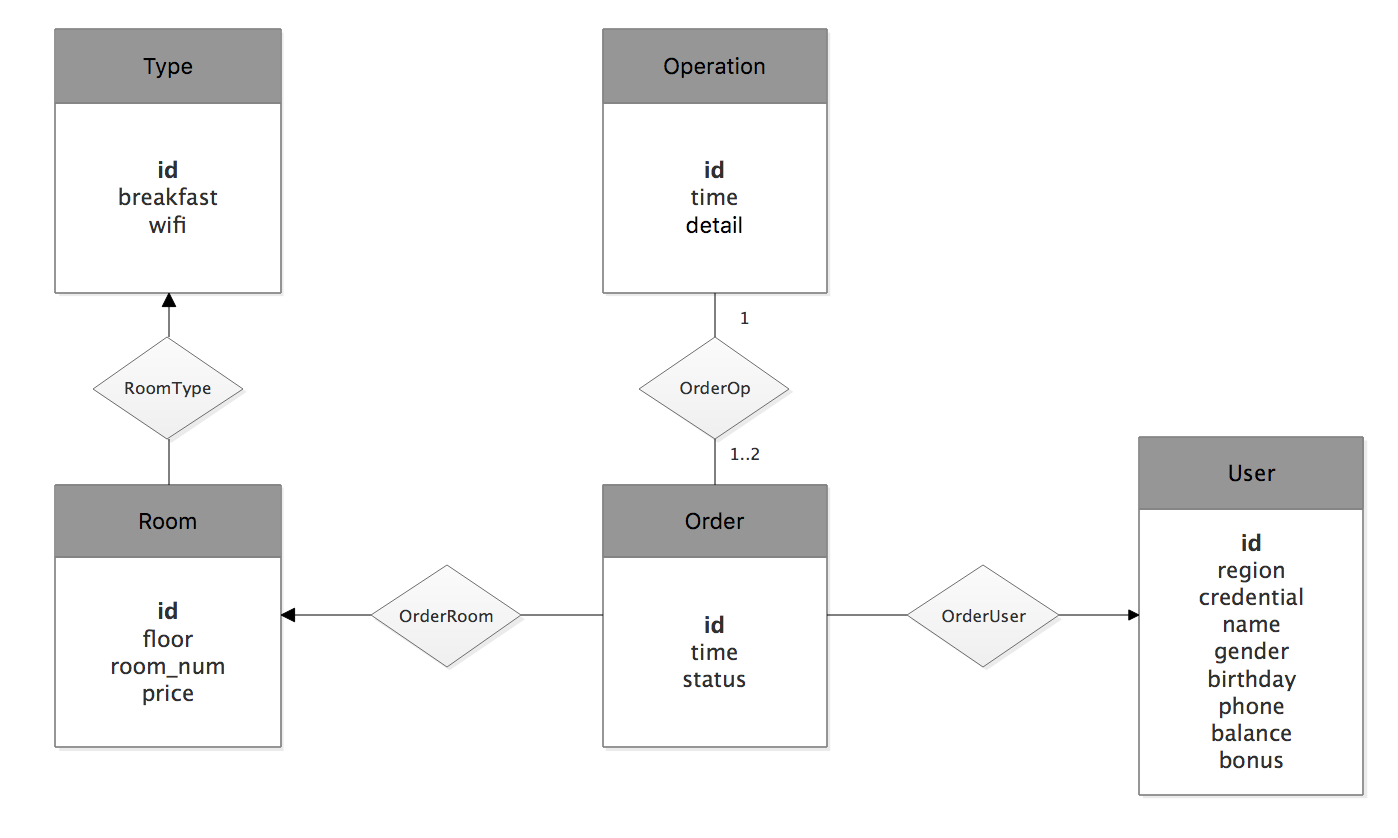
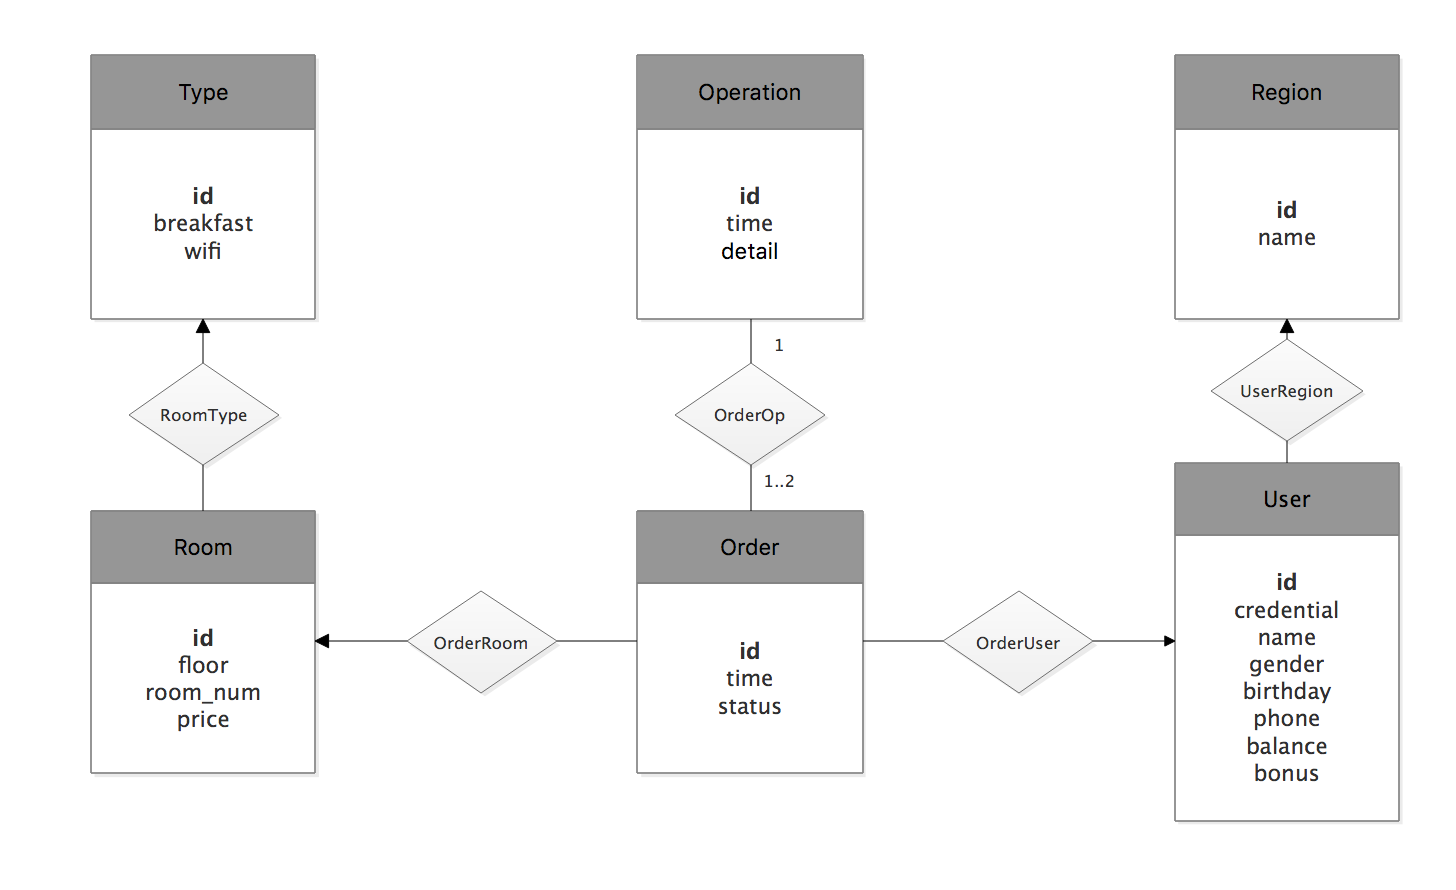
添加region模式

diff --git a/report/myreport.tex b/report/myreport.tex
@@ -149,7 +149,7 @@
 	\item 考虑多对一的联系集$AB$和相关的实体集$A$, $B$, ，若$A$在联系中的参与是全部的，那么可以将$A$与$AB$模式属性合并得到$A^*$，主码是$A$的主码，外码加入$A^*$中。
 \end{itemize}
 
-依照上述规则，由于Type、Room、Operation、Order、User均为简单强实体集于是可以首先生成包含对应属性的关系模式。再考虑联系集，由于OrderUser、RoomType、OrderRoom、OrderOp均为一对多的联系集，因此均可以按照上述规则消除。
+依照上述规则，由于Type、Room、Operation、Order、User、Region均为简单强实体集于是可以首先生成包含对应属性的关系模式。再考虑联系集，由于OrderUser、RoomType、OrderRoom、OrderOp、UserRegion均为一对多的联系集，因此均可以按照上述规则消除。
 
 最后得到以下关系模式：
 
@@ -161,7 +161,9 @@ Operation(\textbf{id}, time, operation. \textit{order\_id})
 
 Order(\textbf{id}, time, status, \textit{room\_id}, \textit{user\_id})
 
-User(\textbf{id}, region, credential, name, gender, birthday, phone, balance)
+Region(\textbf{id}, name)
+
+User(\textbf{id}, credential, name, gender, birthday, phone, balance, \textit{region\_id})
 
 
 \section{物理设计}
